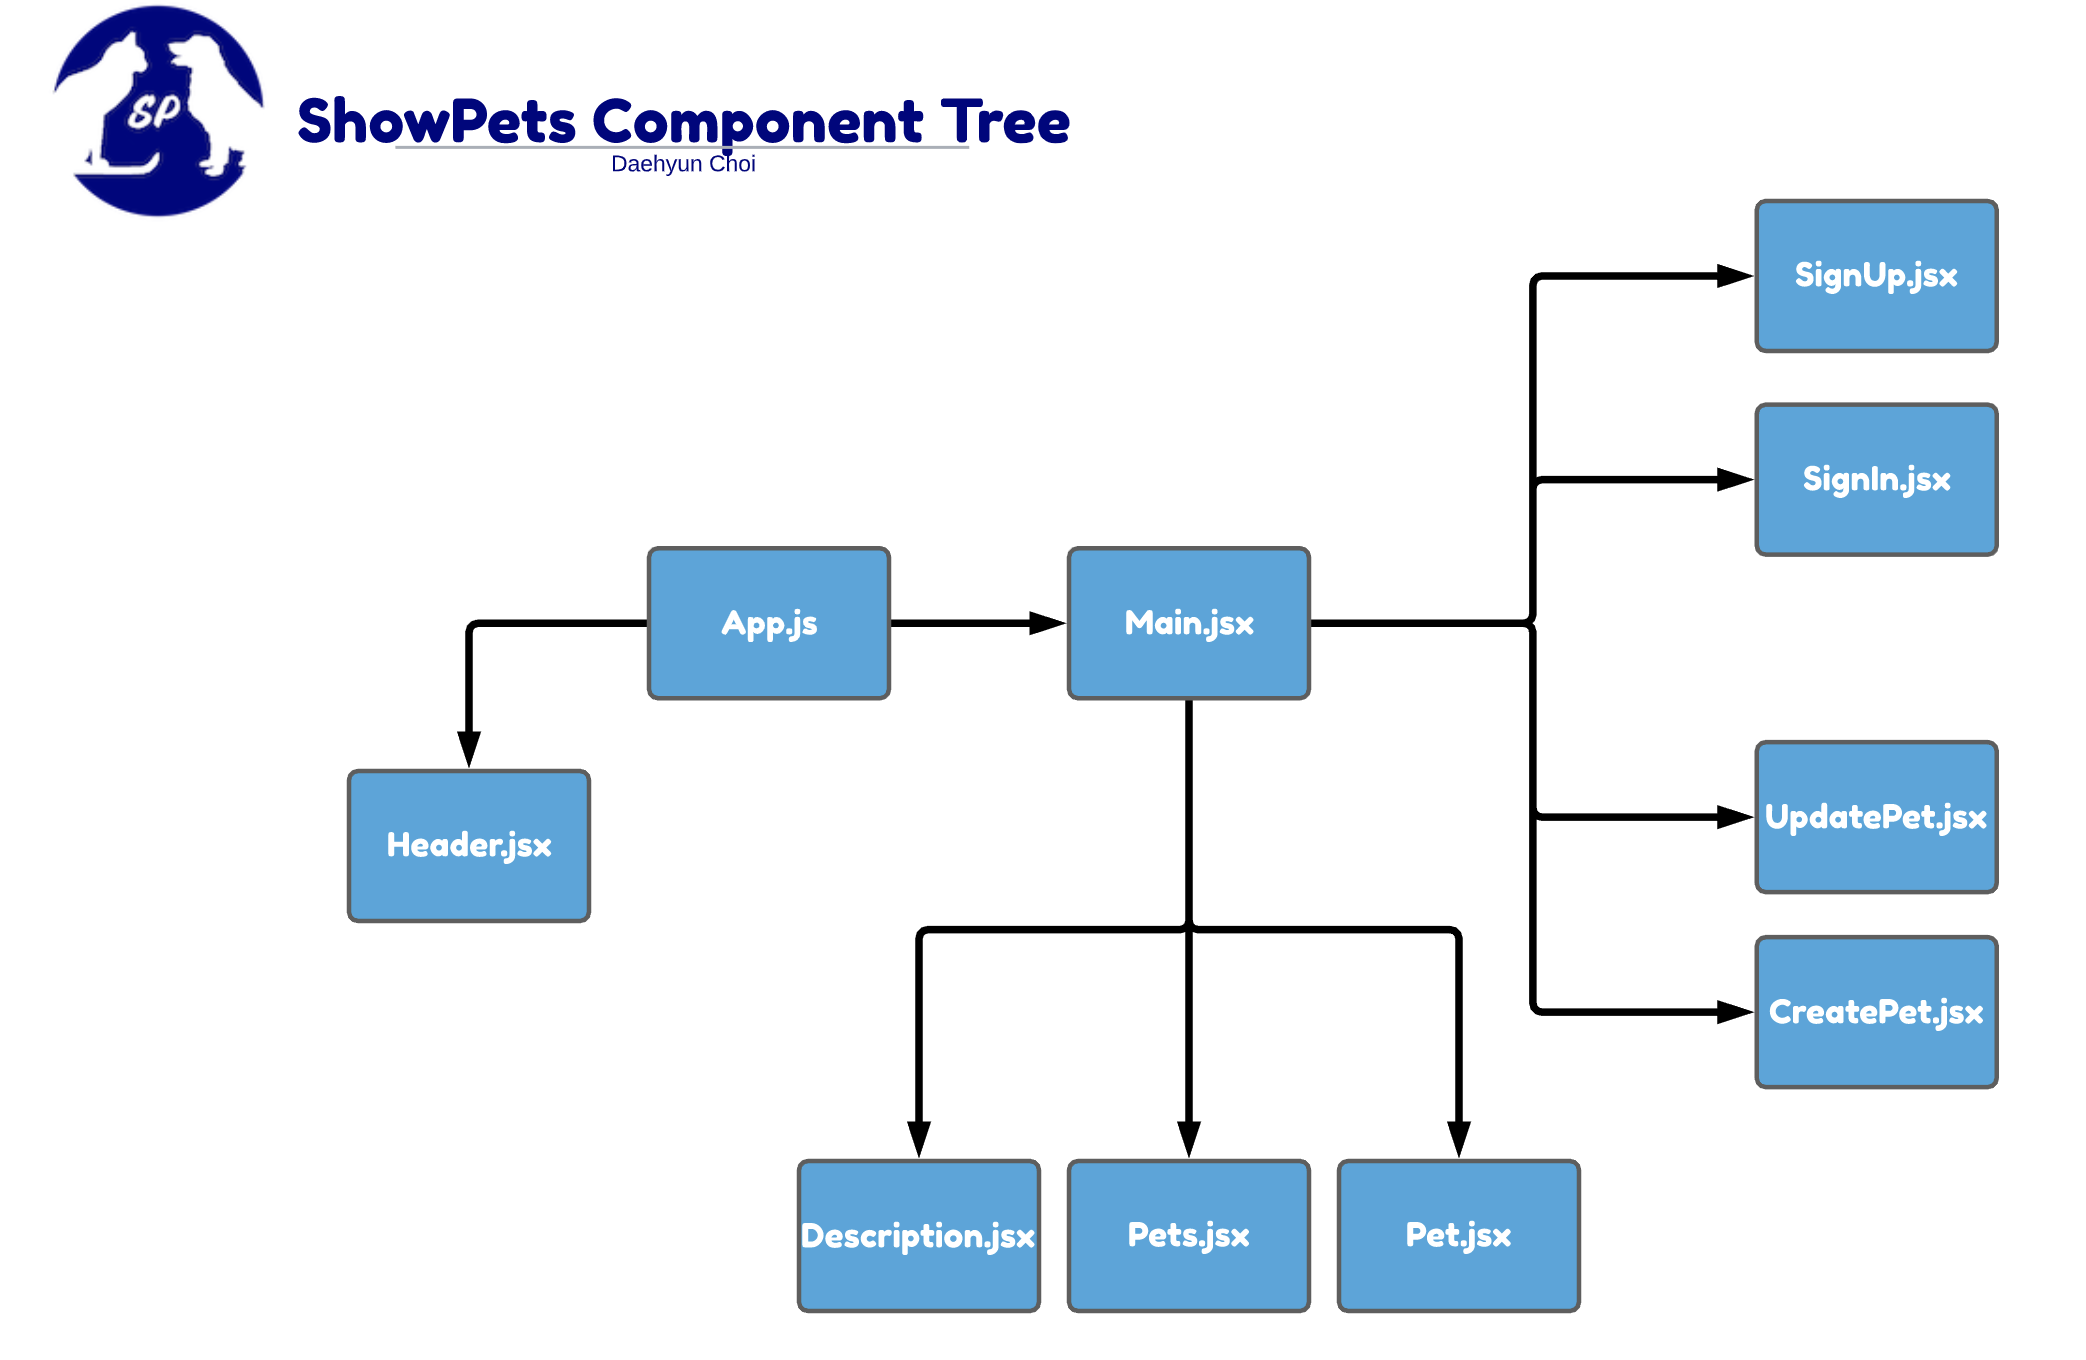
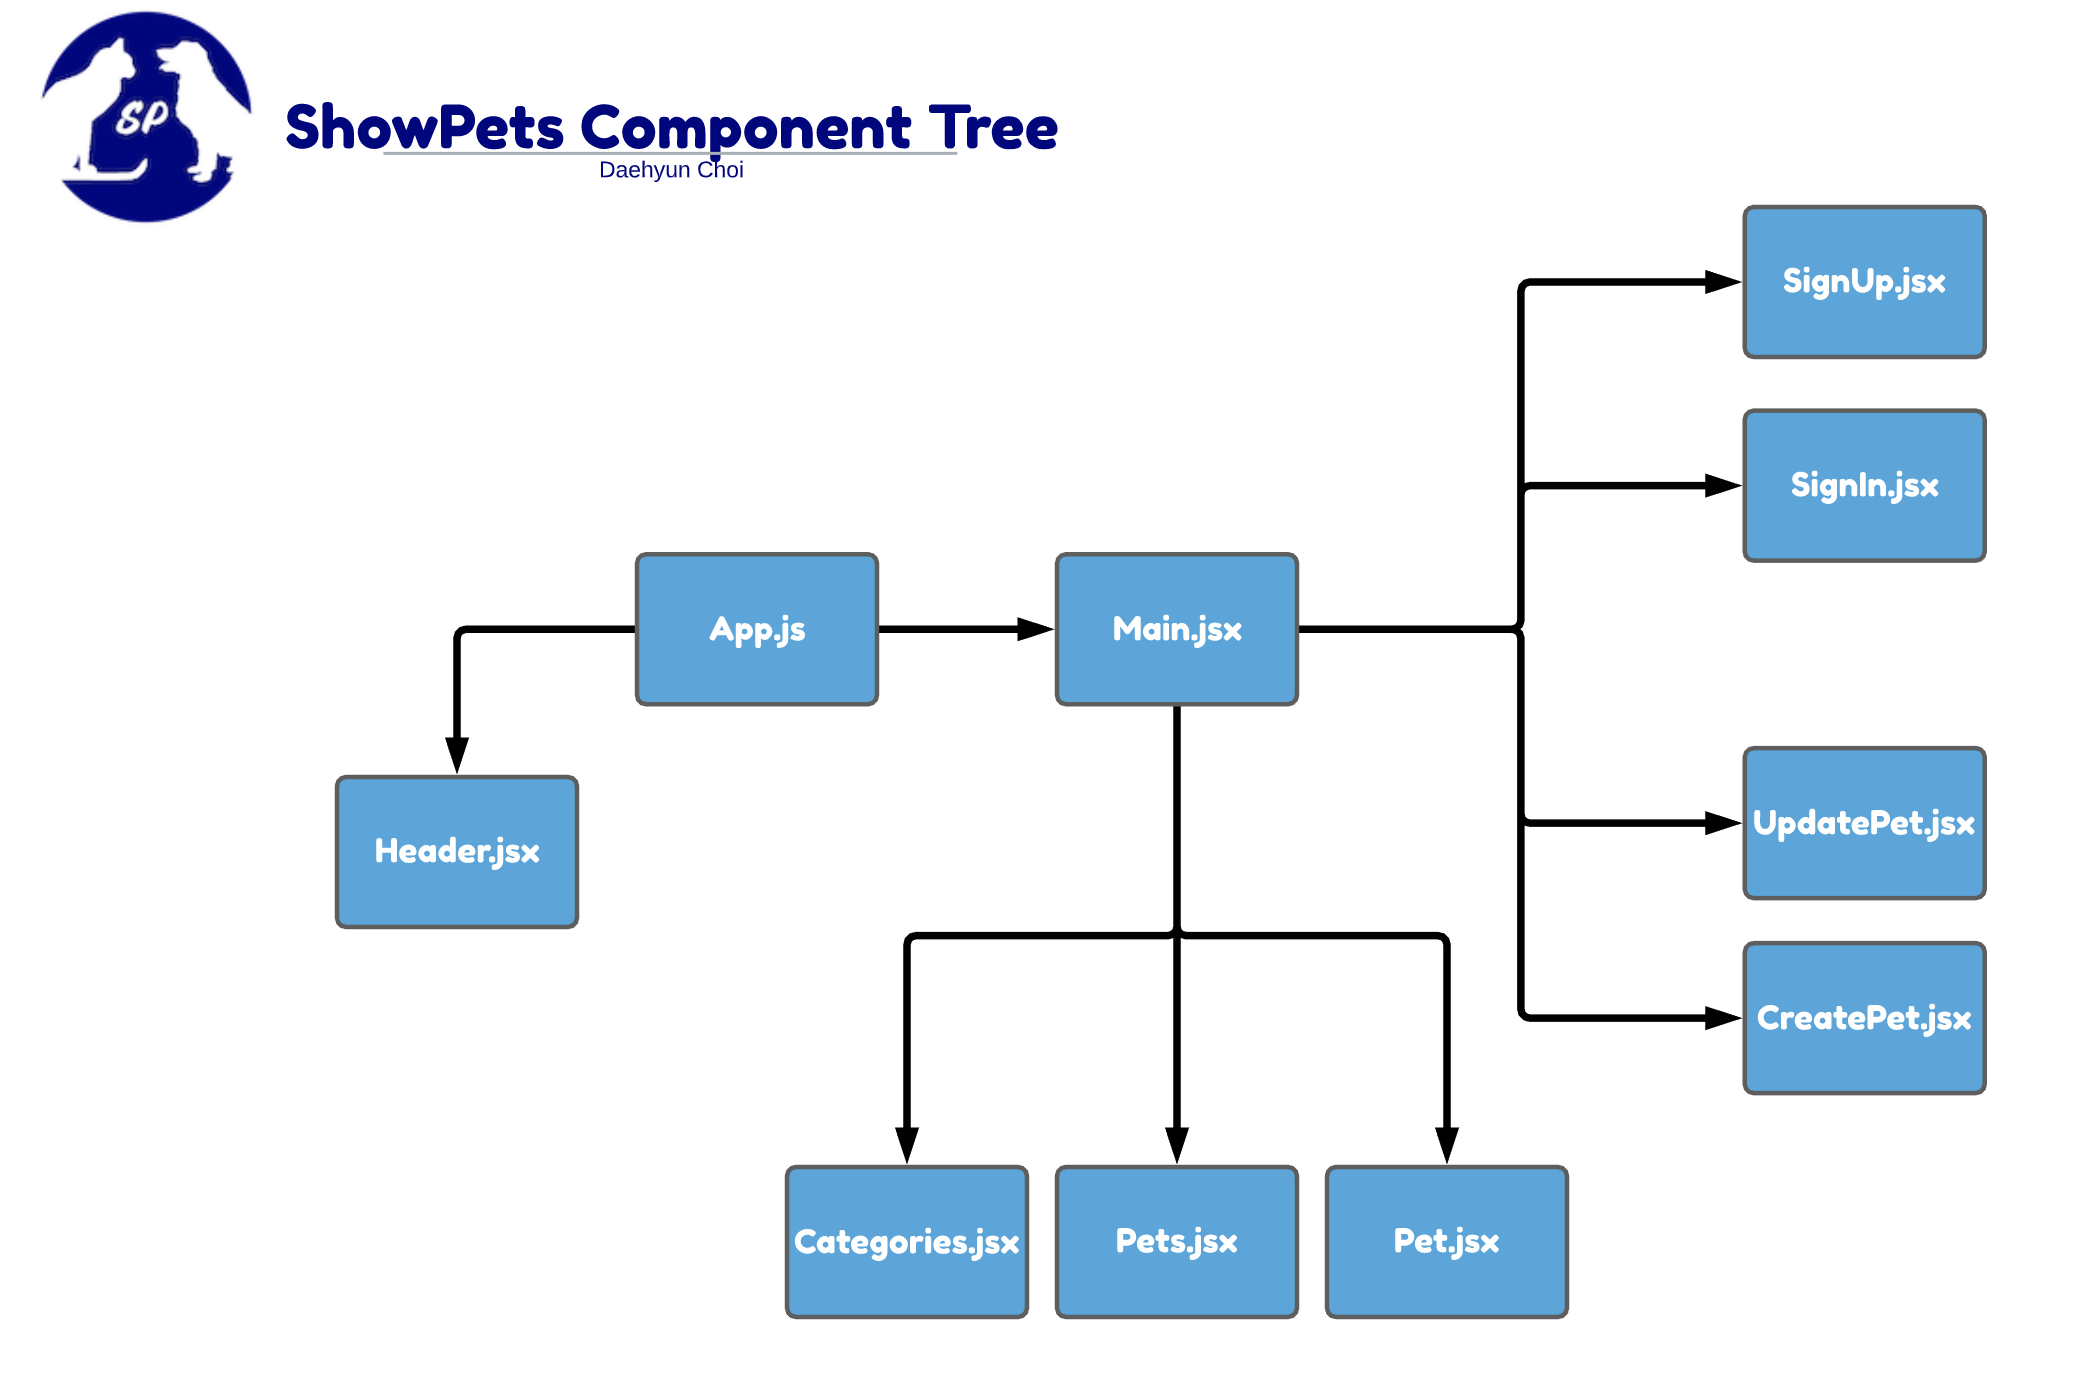
updated

Changed region(s): [[0.1558, 0.1235, 0.966, 0.9882], [0.0, 0.0, 0.5297, 0.1544]]

diff --git a/README.md b/README.md
@@ -119,9 +119,9 @@ src
       |__ Pet
             |__ Pet.css
             |__ Pet.jsx
-      |__ Description
-            |__ Descriptions.css
-            |__ Descriptions.jsx
+      |__ Categories
+            |__ Categories.css
+            |__ Categories.jsx
       |__ CRUD
             |__ CreatePet.jsx
             |__ UpdatePet.jsx
@@ -148,18 +148,18 @@ src
 
 #### Component Breakdown
 
-|  Component   |    Type    | state | props | Description                                                                         |
-| :----------: | :--------: | :---: | :---: | :---------------------------------------------------------------------------------- |
-|    Header    | functional |   n   |   y   | _The header will contain the logo, the title, welcome user, and the create button._ |
-|     Main     |   class    |   y   |   y   | _The main will be the source of all states._                                        |
-|     Pets     | functional |   n   |   y   | _The Pets will be render the all pets._                                             |
-|     Pet      | functional |   n   |   y   | _The Pet will render a single specified pet._                                       |
-| Descriptions | functional |   n   |   y   | _The Description will render the information of the specified pet._                 |
-|  CreatePet   |   class    |   y   |   y   | _The CreatePet will be used to add a new pet._                                      |
-|  UpdatePet   |   class    |   y   |   y   | _The UpdatePet will be used to update specified pet._                               |
-|    SignIn    |   class    |   y   |   y   | _The SignIn will allow users to sign in._                                           |
-|    SignUp    |   class    |   y   |   y   | _The SignUp will allow users to sign up._                                           |
-|     App      |   class    |   y   |   n   | _The App will be the brain of the app and pass props down._                         |
+| Component  |    Type    | state | props | Description                                                                         |
+| :--------: | :--------: | :---: | :---: | :---------------------------------------------------------------------------------- |
+|   Header   | functional |   n   |   y   | _The header will contain the logo, the title, welcome user, and the create button._ |
+|    Main    |   class    |   y   |   y   | _The main will be the source of all states._                                        |
+|    Pets    | functional |   n   |   y   | _The Pets will be render the all pets._                                             |
+|    Pet     | functional |   n   |   y   | _The Pet will render a single specified pet._                                       |
+| Categories | functional |   n   |   y   | _The Description will render the information of the specified pet._                 |
+| CreatePet  |   class    |   y   |   y   | _The CreatePet will be used to add a new pet._                                      |
+| UpdatePet  |   class    |   y   |   y   | _The UpdatePet will be used to update specified pet._                               |
+|   SignIn   |   class    |   y   |   y   | _The SignIn will allow users to sign in._                                           |
+|   SignUp   |   class    |   y   |   y   | _The SignUp will allow users to sign up._                                           |
+|    App     |   class    |   y   |   n   | _The App will be the brain of the app and pass props down._                         |
 
 [🔝](#ShowPets)
 
@@ -180,7 +180,7 @@ src
 | Api-Helper            |    H     |     2 hrs      |      hrs      |     hrs     |
 | Pets                  |    H     |     3 hrs      |      hrs      |     hrs     |
 | Pet                   |    H     |     3 hrs      |      hrs      |     hrs     |
-| Descriptions          |    M     |     3 hrs      |      hrs      |     hrs     |
+| Categories            |    M     |     3 hrs      |      hrs      |     hrs     |
 | CreatePet             |    H     |     3 hrs      |      hrs      |     hrs     |
 | UpdatePet             |    H     |     3 hrs      |      hrs      |     hrs     |
 | DeletePet             |    H     |     3 hrs      |      hrs      |     hrs     |
